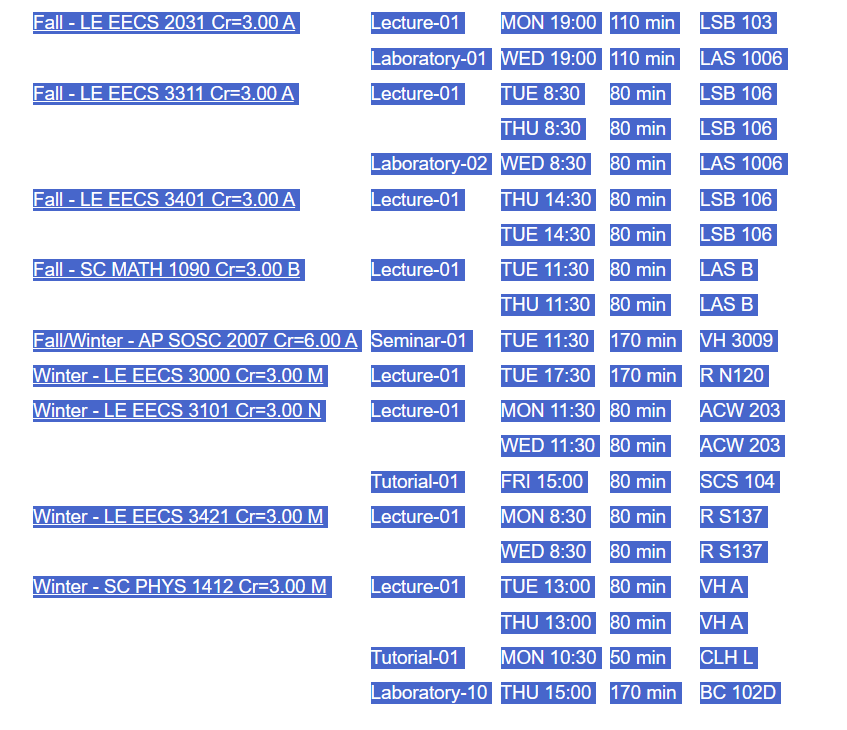
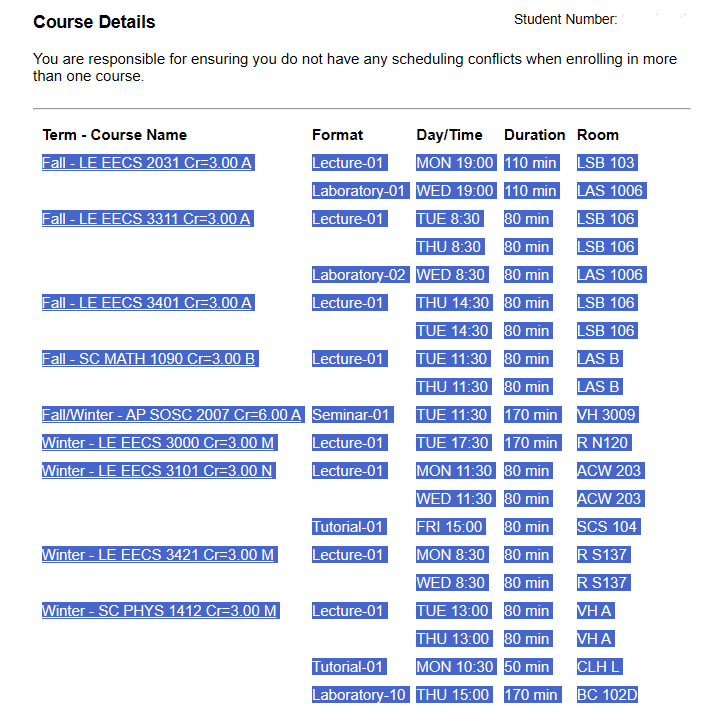
minor white space issue fix after test in deployment, changed ui image reference too

diff --git a/src/utils/parseRemText.ts b/src/utils/parseRemText.ts
@@ -26,8 +26,11 @@ export function parseRemText(rawText: string): Course[] {
   let currentMeetingSection: string | null = null;
 
   try {
-    // 1. Split the text into lines, handling both Windows (\r\n) and UNIX (\n) line endings
-    const lines: string[] = rawText.split(/\r?\n/);
+    // 1. Split the text into lines, trim whitespace, and filter out empty lines
+    const lines: string[] = rawText
+      .split(/\r?\n/)
+      .map((line) => line.trim())
+      .filter((line) => line.length > 0);
 
     // 2. Loop through each line using a for...of loop
     for (const line of lines) {
